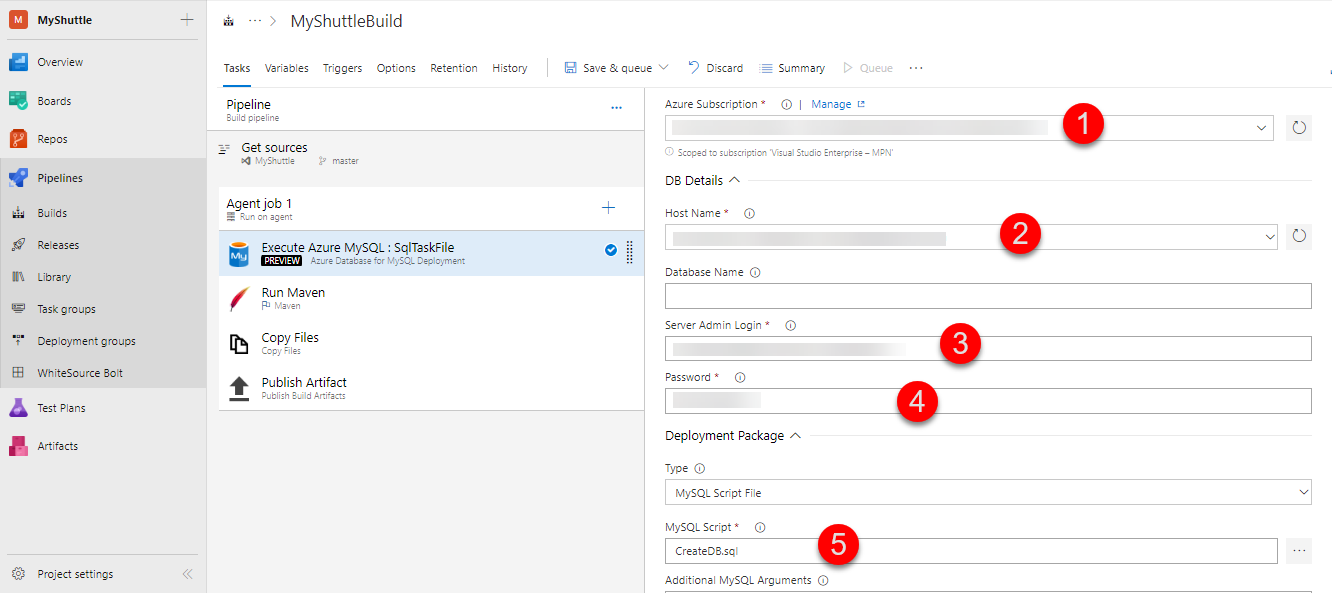
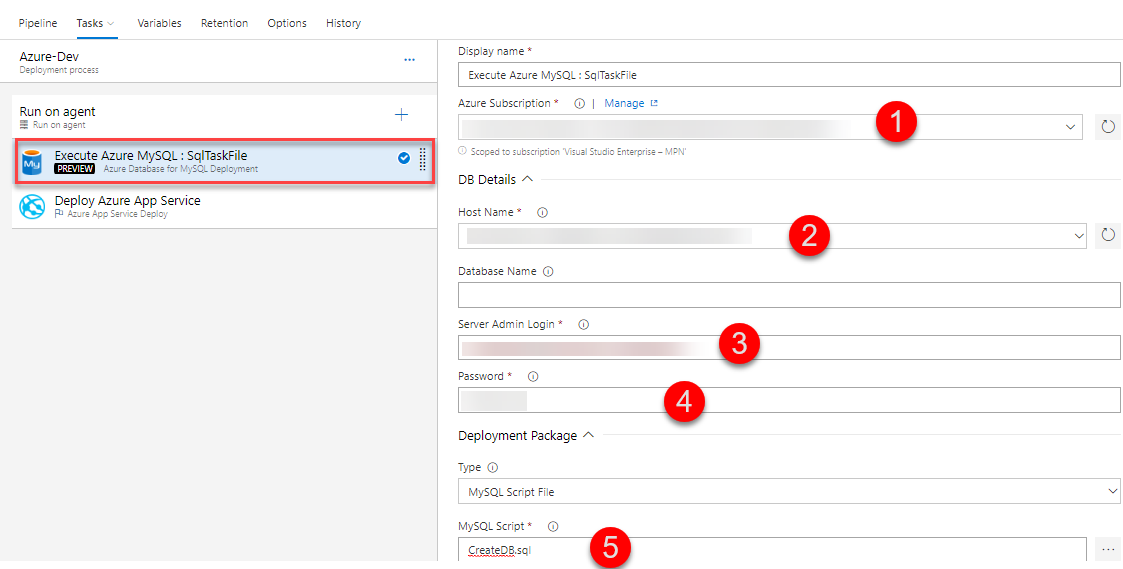
updated tomcat lab

diff --git a/labs/vstsextend/tomcat/readme.md b/labs/vstsextend/tomcat/readme.md
@@ -26,7 +26,7 @@ This lab will show how you can
 
 ### Prerequisites for the lab
 
-1. Refer the [Getting Started](../setup/readme) page before you begin following the exercises.
+1. Refer the [Getting Started](../Setup/) page before you begin following the exercises.
 
 1. Use  **MyShuttle** as a template to provision the new Azure DevOps project using the [Azure DevOps Demo Generator](https://azuredevopsdemogenerator.azurewebsites.net/Environment/Create?TemplateId=77373&TemplateName=MyShuttle){:target="_blank"}.
 
@@ -71,13 +71,13 @@ Next, navigate to the Web app that you have created. As you are deploying a Java
 
 1. From the Azure portal, select the Web app you provisioned. Select **Application Settings** and scroll down to the **Connection Strings** section.
 
-1. Add a new MySQL connection string with **MyShuttleDb** as the name, paste the following string for the value and replace **MySQL Server Name**, **your user name** and **your password** with the appropriate values -
+1. Add a new **MySQL** connection string with **MyShuttleDb** as the name, paste the following string for the value and replace **MySQL Server Name**, **your user name** and **your password** with the appropriate values -
 
    `jdbc:mysql://{MySQL Server Name}:3306/alm?useSSL=true&requireSSL=false&autoReconnect=true&user={your user name}&password={your password}`
 
 1. Click on **Save** to save the connection string.
 
-    {% include note.html content= "Connection Strings configured here will be available as environment variables, prefixed with connection type for Java apps (also for PHP, Python and Node apps). In the **DataAccess.java** file under **src/main/java/com/microsoft/example** folder, we retrieve the connection string using the following code" %}
+    > {% include note.html content= "Connection Strings configured here will be available as environment variables, prefixed with connection type for Java apps (also for PHP, Python and Node apps). In the **DataAccess.java** file under **src/main/java/com/microsoft/example** folder, we retrieve the connection string using the following code" %}
 
     ````Java
     String conStr = System.getenv("MYSQLCONNSTR_MyShuttleDb");
@@ -85,34 +85,11 @@ Next, navigate to the Web app that you have created. As you are deploying a Java
 
 You have now setup and configured all the resources that is needed to deploy and run the MyShuttle application.
 
-## Exercise 4: Configuring the Build
-
-1. Navigate to the Azure DevOps project that you provisioned.
-
-1. Select **Pipelines** and click **Edit** to open the build definition.
-
-    ![Edit Build Definition](images/editbuild.png)
-
-1. Select **Execute Azure MySQL** task and provide the following details. 
-
-    * Azure Subscription Details : Select the appropriate subscription, click **Authorize** and login to your Azure subscription in the pop-up window.
-    * Host Name : Select the **MySQL Database server** that was created.
-    * Server Admin Login : Provide the **SERVER ADMIN LOGIN NAME** that you copied in *Exercise 2: Step 5*.
-    * Password : Provide the password that you created under *Database* in the **Web App + MYSQL** blade of Azure portal.
-
-   ![Execute Azure MySQL Task](images/azuremysqltask.png)
-
-1. Click **Save & queue** to save and trigger a manual build.
-
-   ![Save and queue](images/saveandqueue.png)
-
-1. Wait for the build to succeed and then look at the build logs for detailed information.
-
-## Exercise 5: Deploy the changes to Web App
+## Exercise 4: Deploy the changes to Web App
 
 1. Select **Pipelines** and then **Releases**.
 
-1. Select **MyShuttle Release** and click **Edit** to open the release definition.
+1. Select **MyShuttle Release** and click **Edit Pipeline** to open the release definition.
 
    ![Edit MyShuttle Release Definition ](images/editrelease.png)
 
@@ -120,9 +97,20 @@ You have now setup and configured all the resources that is needed to deploy and
 
    ![Team Build Artifact](images/addartifacts.png)
 
-1. Select the **Deploy Azure App Service**, select the Azure subscription from the drop down, click on **Authorize** and ensure that the app service name is reflected correctly.
+
+1. Click **Tasks** and select **Execute Azure MySQL : SqlTaskFile** task and provide the following details. 
+
+    * Azure Subscription Details : Select the appropriate subscription, click **Authorize** and login to your Azure subscription in the pop-up window.
+    * Host Name : Select the **MySQL Database server** that was created.
+    * Server Admin Login : Provide the **SERVER ADMIN LOGIN NAME** that you noted down previously.
+    * Password : Provide the password that you created under *Database* in the **Web App + MYSQL** blade of Azure portal.
+
+   ![Execute Azure MySQL Task](images/azuremysqltask.png)
+
+1. Select the **Deploy Azure App Service** task, select the Azure subscription from the drop down and ensure that the created app service name is reflected correctly.
 
    {% include note.html content= "We are using the **Deploy Azure App Service** task. This task is used to update Azure App Service to deploy Web Apps and WebJobs to Azure.  The task works on cross platform agents running Windows, Linux or Mac and uses the underlying deployment technologies of Web Deploy and Kudu. The task works for ASP.NET, ASP.NET Core 1 and Node.js based web applications. Note that this task works with  Azure Resource Manager APIs only." %}
+
 
 1. Click on **Save** and then **+Release \| Create Release** to start a new release
 
